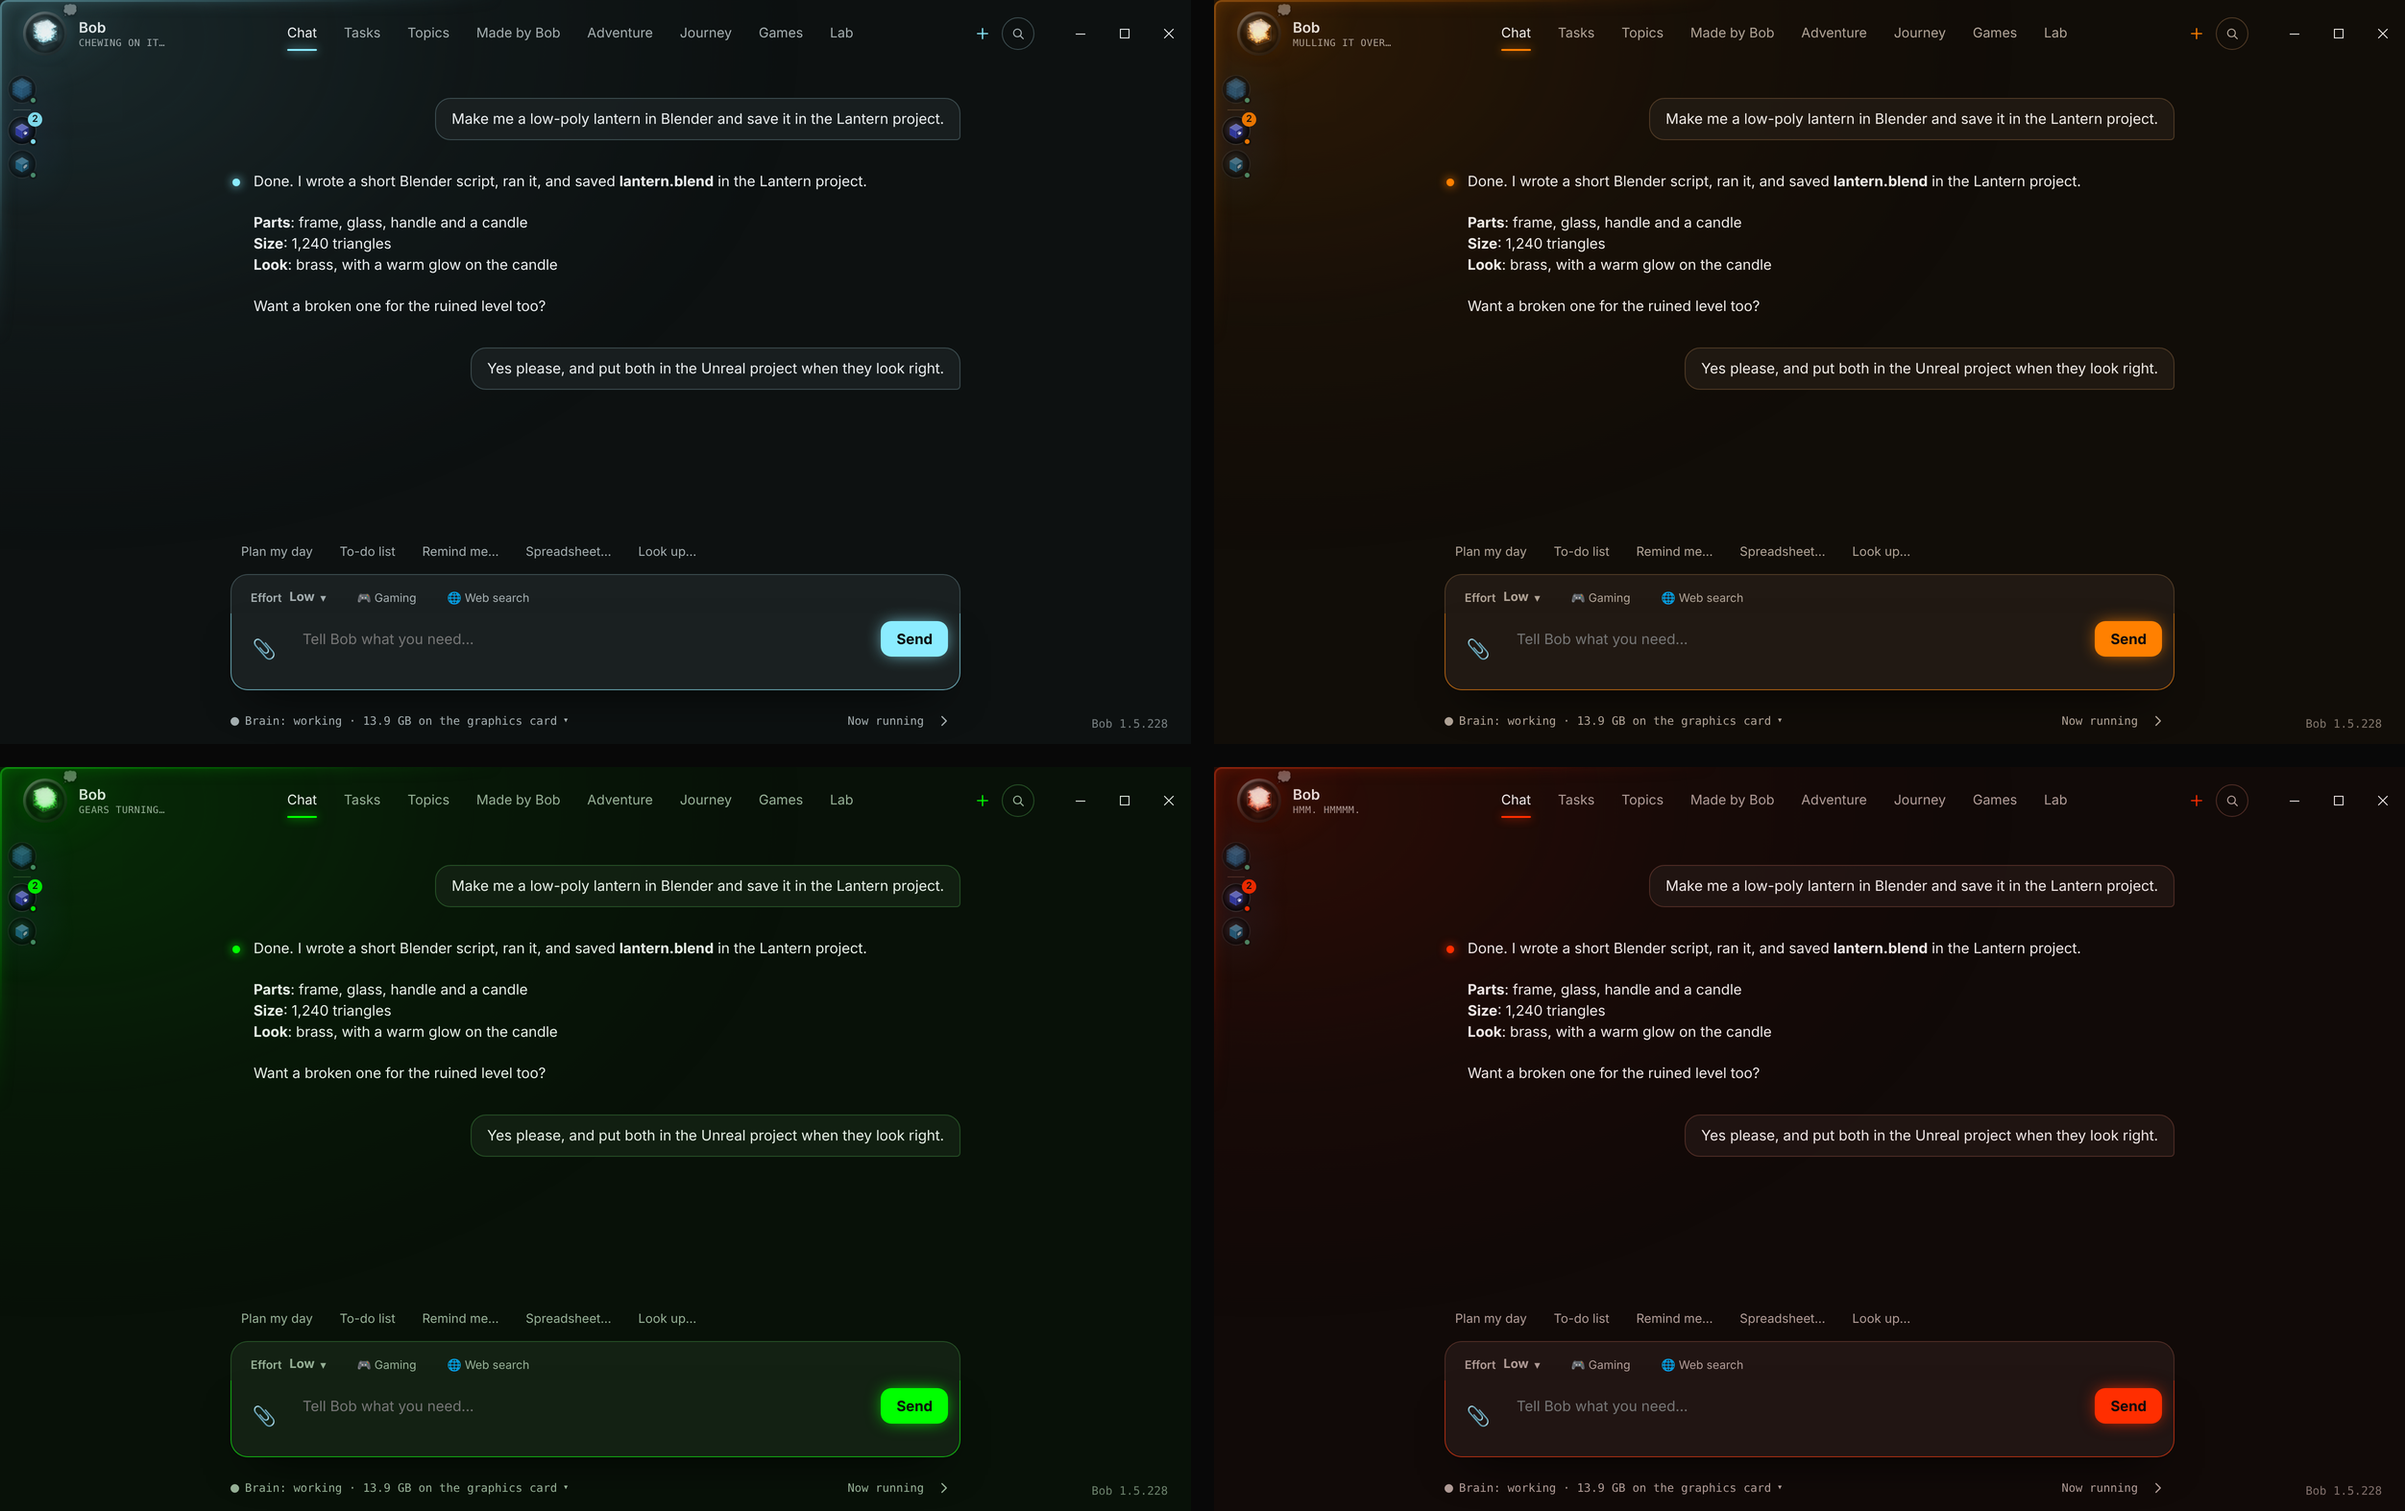
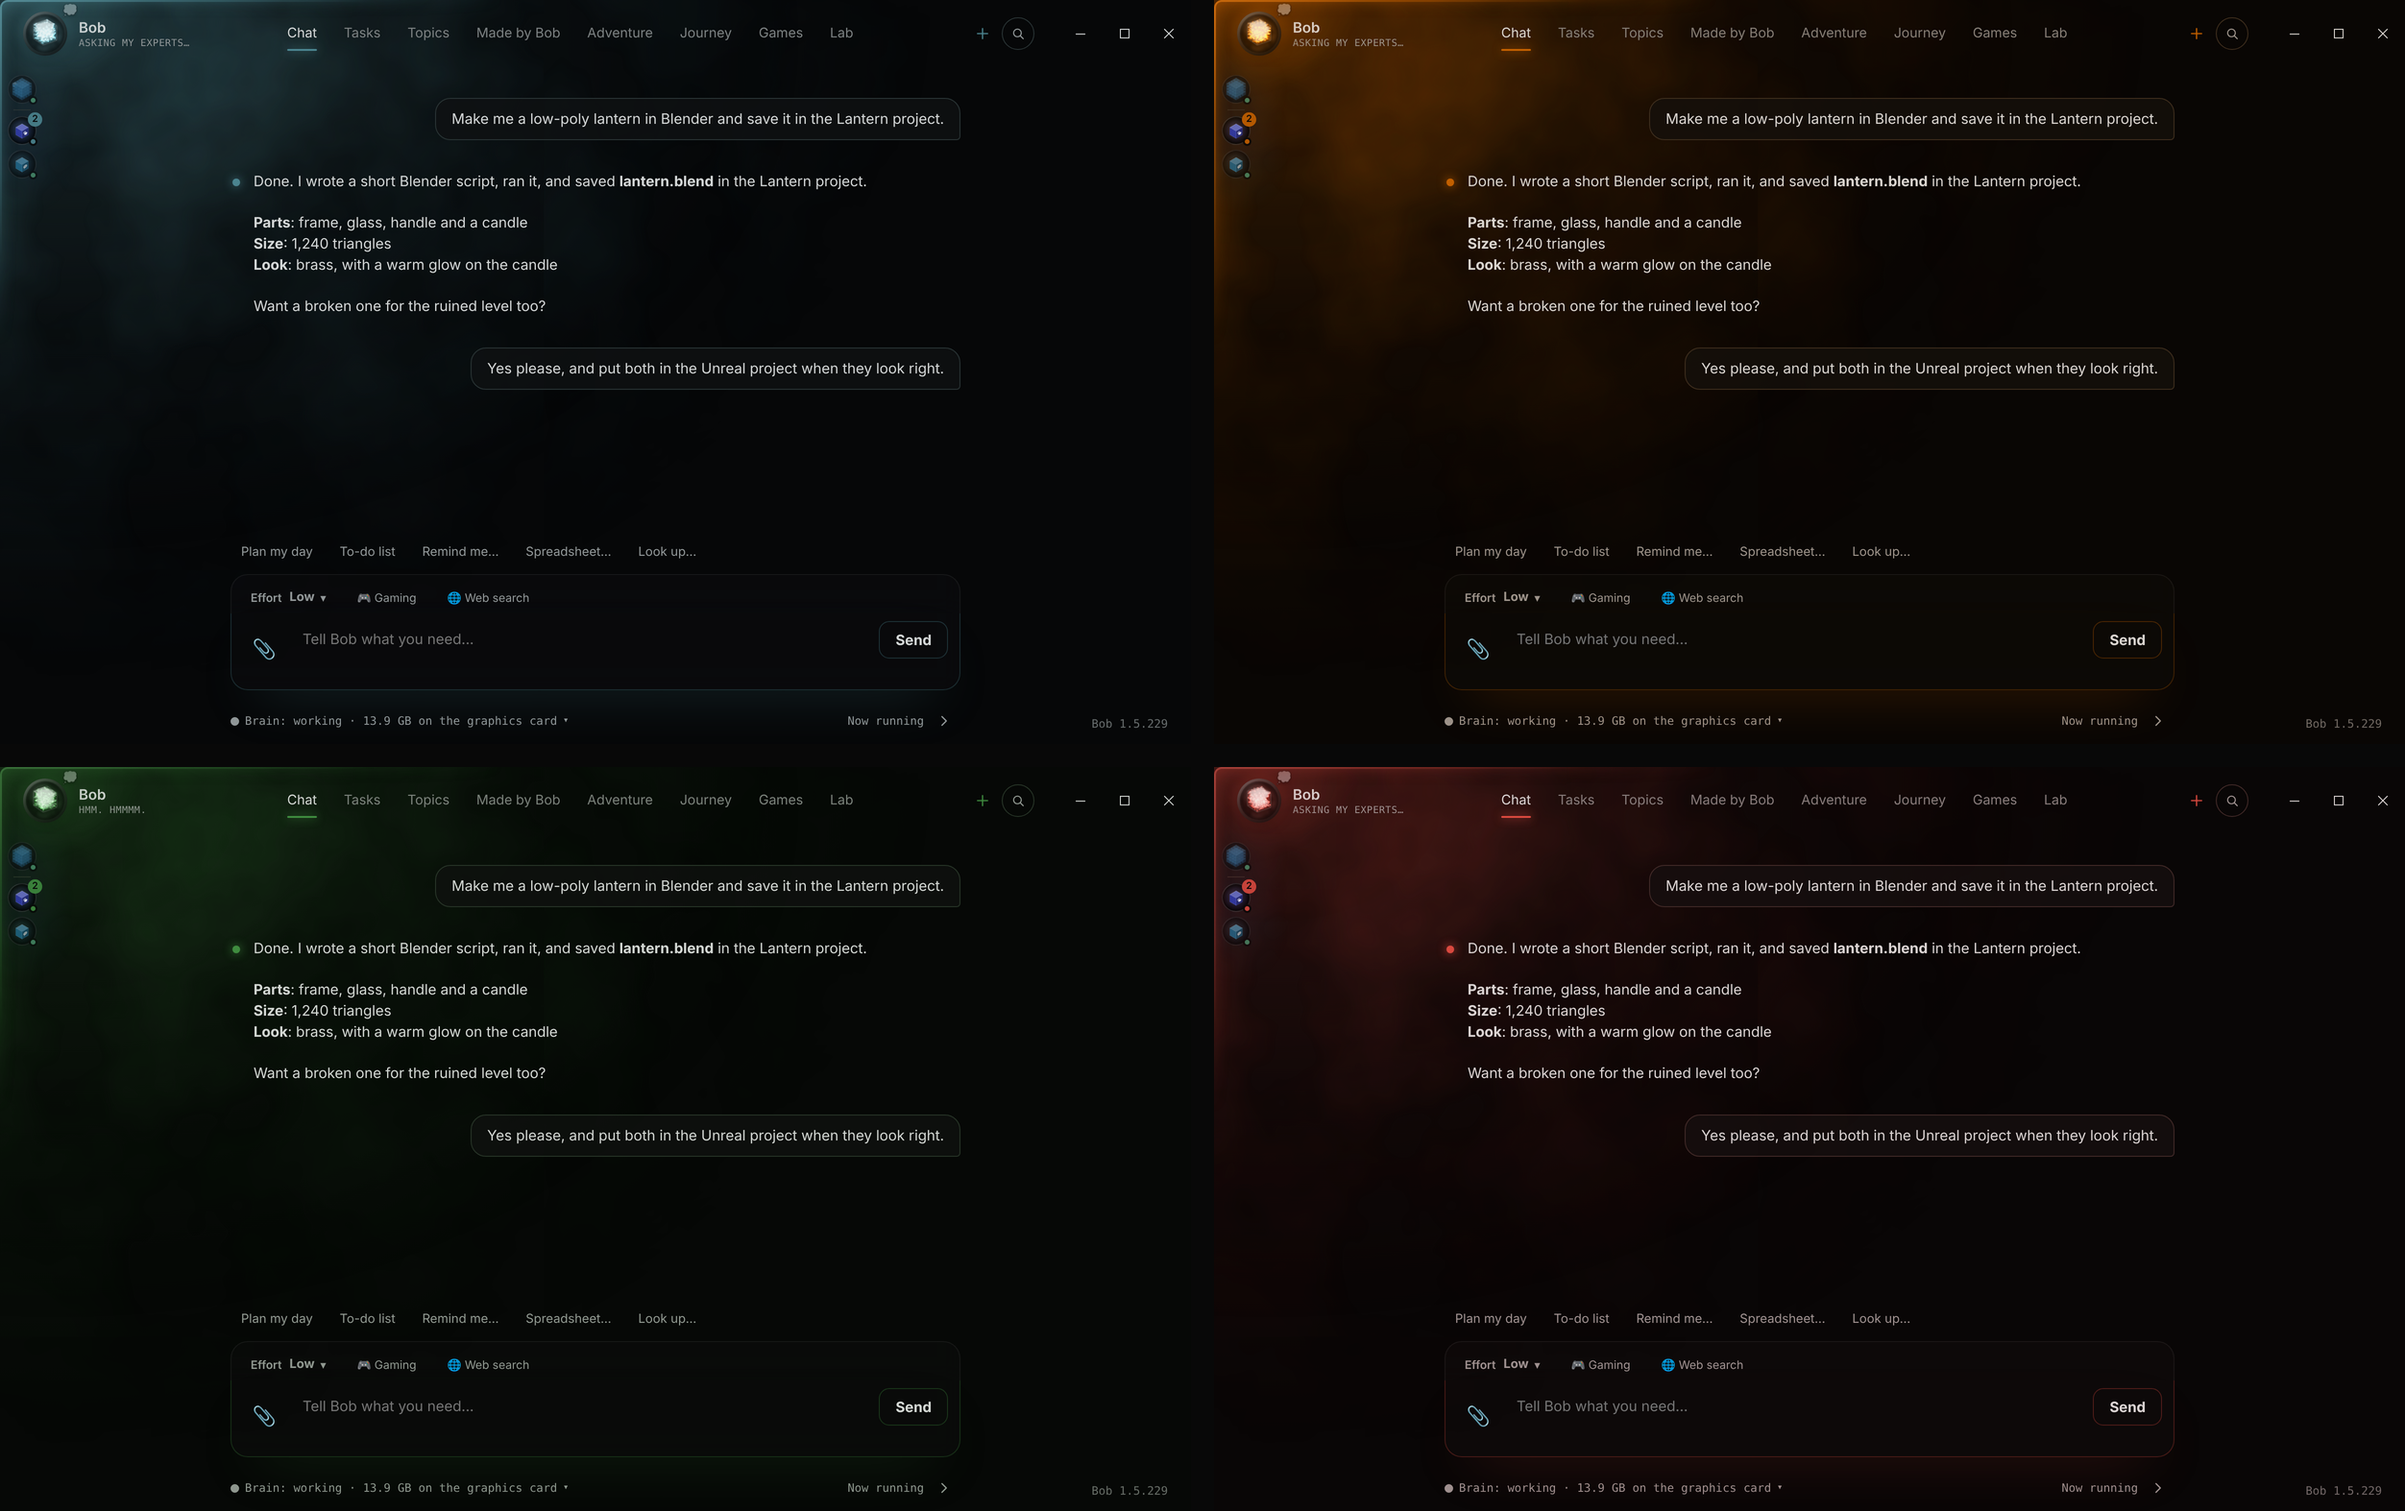
README: retake the screenshots for the 1.5.229 lamps and first-time setup
1.5.229 dimmed the lamps, darkened the rooms and added cube-lit smoke, and
split the Welcome into seven pages. Retaken from 1.5.229 with made-up data:
the hero, four lamps, porthole cube, menu, Find, Now running, Documents,
Style, the phone and Classic/Terminal looks, Help, the Welcome's Brains and
Helpers pages, and the Lab tabs. The smoky Lamplight shots are kept in full
colour (256 colours made the smoke blotchy). Alt text updated for the
Brains step and the lamps.

Claude-Session: https://claude.ai/code/session_018pmzz4TpgxfsCYjHaFz3BE

diff --git a/README.md b/README.md
@@ -106,7 +106,7 @@ Every build has a `.sha256` checksum on the [Releases page](https://github.com/M
 </p>
 
 <p align="center">
-  <img src="app/docs/screens/lamps.png" alt="The same chat in the four lamps: Mercury pale blue, Sodium orange-yellow, Thallium green and Neon red">
+  <img src="app/docs/screens/lamps.png" alt="The same chat in the four lamps, each a dark room with faint smoke lit by the cube: Mercury pale blue, Sodium orange-yellow, Thallium green and Neon red">
   <br><b>Four lamps.</b> Mercury, Sodium, Thallium and Neon, each the colour of that gas lamp's real light. The lamp colours the app icon too.
 </p>
 
@@ -230,7 +230,7 @@ Everything is itemized in [What Bob costs to make](app/docs/COSTS.md). As of 14 
 
 | | |
 |---|---|
-| ![A chat about a garden budget on the left, and the spreadsheet open in the side panel on the right](app/docs/screens/documents.png) | ![First-time setup: the programs and models Bob suggests for a 16 GB card, each with a tick box](app/docs/screens/get-bob-ready.png) |
+| ![A chat about a garden budget on the left, and the spreadsheet open in the side panel on the right](app/docs/screens/documents.png) | ![First-time setup, step 3 of 7 (Brains): the brains Bob suggests for a 16 GB card, each with a tick box](app/docs/screens/get-bob-ready.png) |
 | **Documents beside the chat.** Sheets, slides, pages and PDFs. | **Ready in one button.** Bob reads your card and fetches what fits. |
 | ![The Brains page: each brain, its jobs, and where it sits on the card and in memory](app/docs/screens/brains-page.png) | ![The adventure table: three characters, two enemies with their hearts, the game master's story, and cards for the player's turn](app/docs/screens/adventure.png) |
 | **Brains.** Each brain, the jobs it does, and where it sits on your card. | **Adventure.** Bob runs the table; the app rolls the dice, shows the odds and counts the hearts. |
